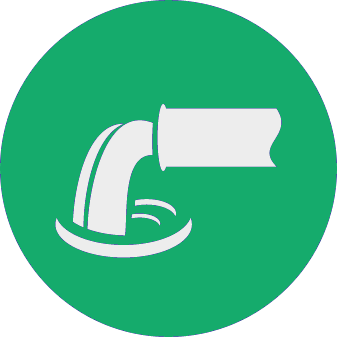
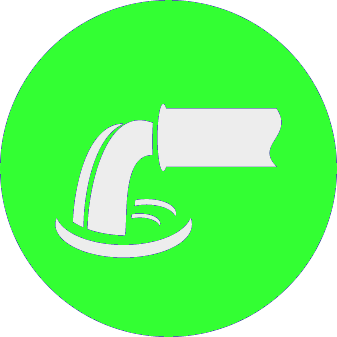
Change Color

diff --git a/DPI_Integration/index.php b/DPI_Integration/index.php
@@ -3911,19 +3911,19 @@ and open the template in the editor.
                 <?php }?>;
                 for(i = 0; i < 3; i++) {
                     if(data[i] <= 0.25){
-                        bg_color.push("rgba(255, 56, 3, 1)");
+                        bg_color.push("#ff3333");
                     }else if(data[i] <= 0.4){
-                        bg_color.push("rgba(252, 157, 61, 1)");
+                        bg_color.push("#ff8533");
                     }else{
-                        bg_color.push("rgba(21, 171, 108, 1)");
+                        bg_color.push("#33ff33");
                     }
                 }
                 if(data[3] <= 0.7){
-                    bg_color.push("rgba(253, 56, 3, 1)");
+                    bg_color.push("#ff3333");
                 }else if(data[3] <= 0.8){
-                    bg_color.push("rgba(252, 157, 61, 1)");
+                    bg_color.push("#ff8533");
                 }else{
-                    bg_color.push("rgba(21, 171, 108, 1)");
+                    bg_color.push("#33ff33");
                 }
     //            bg_color.push("rgba(50, 255, 70, 1)");
     //            bg_color.push("rgba(255, 159, 64, 1)");

diff --git a/DPI_Integration/Paralle_coordinate_Macquarie.php b/DPI_Integration/Paralle_coordinate_Macquarie.php
@@ -282,9 +282,9 @@ and open the template in the editor.
 
             /*overall variables*/
             var myCols = [
-                    'rgb(255, 56, 3)',//Red
-                    'rgb(252, 157, 61)',//Orange
-                    'rgb(21, 171, 108)'//Green
+                    '#ff3333',//Red
+                    '#ff8533',//Orange
+                    '#33ff33'//Green
             ];
 
 
